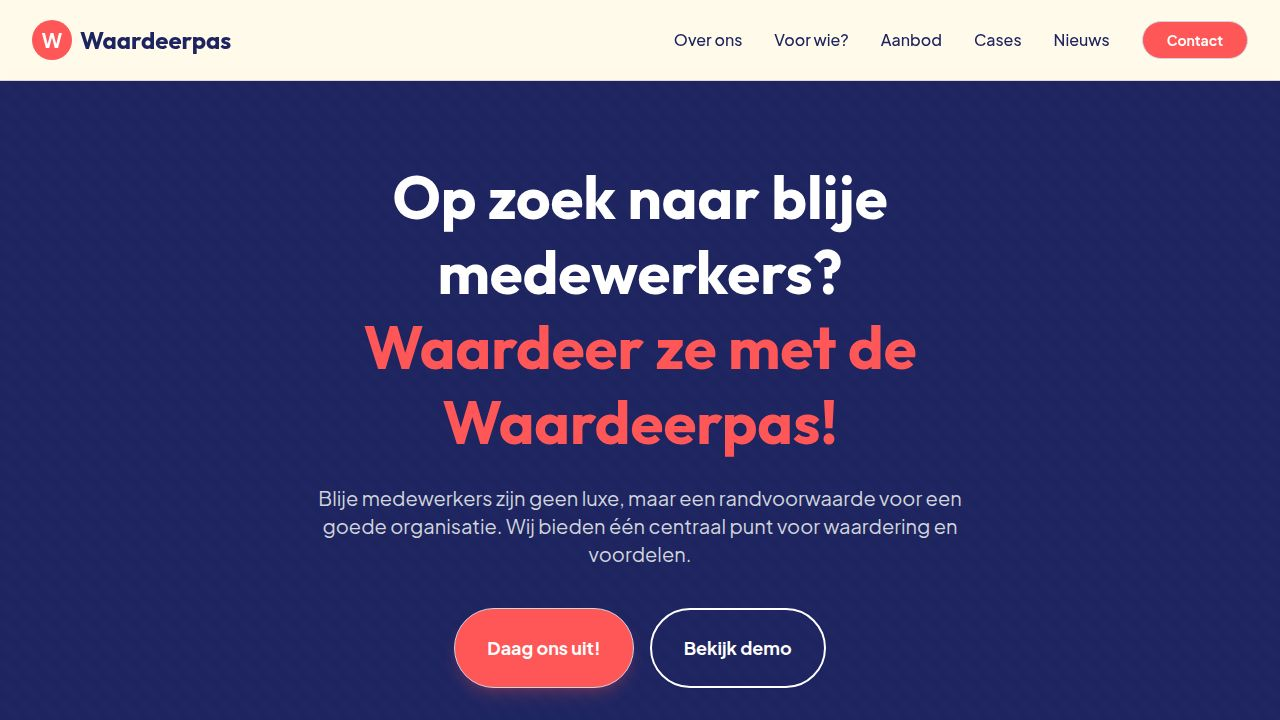
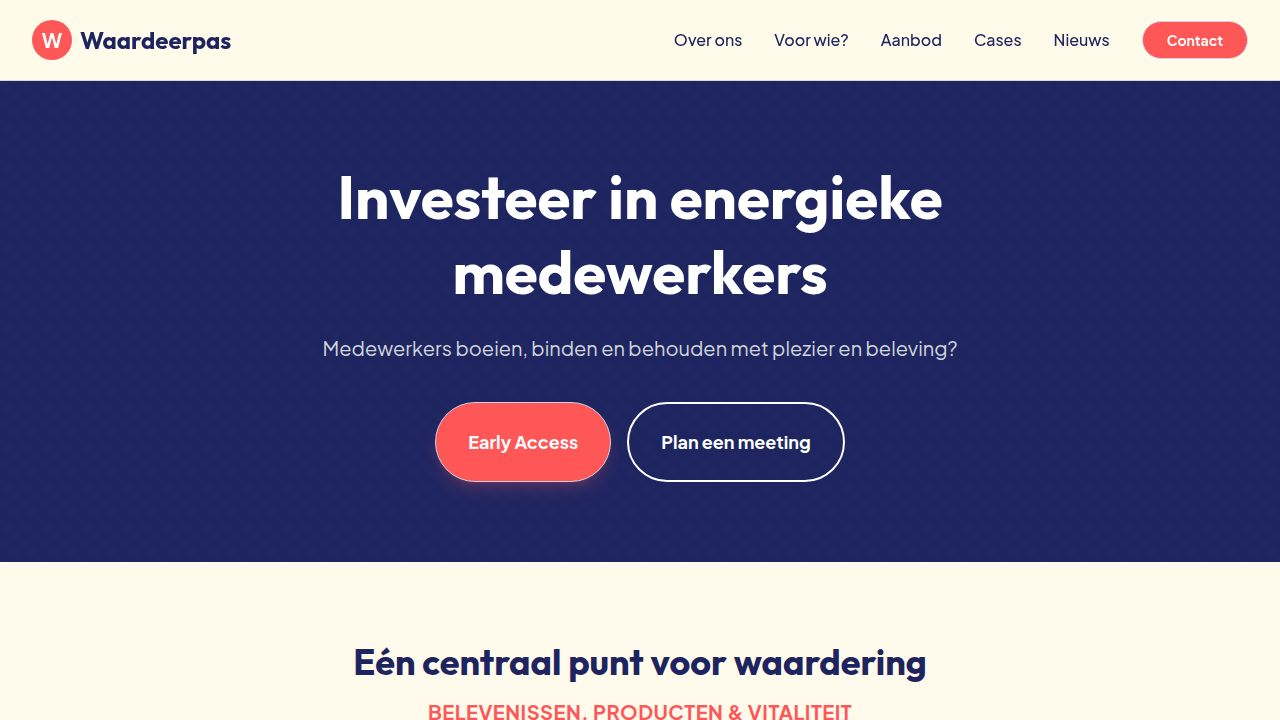
Update hero section with new buttons and feature card content
Modify `client/src/components/Hero.tsx` to change button text to "Early Access" and "Plan een meeting", and update the content of the three feature cards to reflect discounts, gift choices, and Christmas gifts.

Replit-Commit-Author: Agent
Replit-Commit-Session-Id: a5703a2b-0e52-4d04-9498-0dfba1b428a8
Replit-Commit-Checkpoint-Type: full_checkpoint
Replit-Commit-Event-Id: 29dc5ae6-b3f6-4ada-8f53-25484238f965
Replit-Commit-Screenshot-Url: https://storage.googleapis.com/screenshot-production-us-central1/c4239c5d-a015-4585-a5ce-32e352f4c545/a5703a2b-0e52-4d04-9498-0dfba1b428a8/sgQx4Fz
Replit-Helium-Checkpoint-Created: true

Changed region(s): [[0.0, 0.55, 1.0, 1.0], [0.25, 0.2444, 0.75, 0.4278], [0.25, 0.4278, 0.75, 0.5194]]

diff --git a/client/src/components/Hero.tsx b/client/src/components/Hero.tsx
@@ -23,14 +23,14 @@ export function Hero() {
               size="lg"
               className="bg-[#FF5758] hover:bg-[#FF5758]/90 text-white font-bold text-lg px-8 py-6 rounded-full shadow-lg shadow-[#FF5758]/20 transition-all hover:scale-105"
             >
-              Daag ons uit!
+              Early Access
             </Button>
             <Button 
               variant="outline"
               size="lg"
               className="bg-transparent border-2 border-white text-white hover:bg-white hover:text-[#1E2460] font-bold text-lg px-8 py-6 rounded-full transition-all"
             >
-              Bekijk demo
+              Plan een meeting
             </Button>
           </div>
         </div>
@@ -49,35 +49,16 @@ export function Hero() {
           </div>
 
           <div className="grid md:grid-cols-3 gap-8 lg:gap-12">
-            {/* Card 1: Belevenissen */}
-            <div className="flex flex-col items-center text-center group">
-              <div className="w-20 h-20 bg-white rounded-2xl shadow-sm border border-[#1E2460]/10 flex items-center justify-center mb-6 group-hover:scale-110 transition-transform duration-300">
-                <Heart className="w-10 h-10 text-[#FF5758]" />
-              </div>
-              <h3 className="text-xl font-bold text-[#1E2460] mb-3">
-                Belevenissen & Uitjes
-              </h3>
-              <p className="text-[#1E2460]/70 mb-6 leading-relaxed">
-                Creëer blijvende herinneringen met exclusieve toegang tot unieke ervaringen en activiteiten die verbondenheid versterken.
-              </p>
-              <Button 
-                variant="link" 
-                className="text-[#1E2460] font-bold group-hover:text-[#FF5758] transition-colors p-0"
-              >
-                Lees meer <ArrowRight className="w-4 h-4 ml-2" />
-              </Button>
-            </div>
-
-            {/* Card 2: Fysieke Producten */}
+            {/* Card 1: Kortingen */}
             <div className="flex flex-col items-center text-center group">
               <div className="w-20 h-20 bg-white rounded-2xl shadow-sm border border-[#1E2460]/10 flex items-center justify-center mb-6 group-hover:scale-110 transition-transform duration-300">
                 <ShoppingBag className="w-10 h-10 text-[#FF5758]" />
               </div>
               <h3 className="text-xl font-bold text-[#1E2460] mb-3">
-                Fysieke Producten
+                Meer dan 15.000 kortingen
               </h3>
               <p className="text-[#1E2460]/70 mb-6 leading-relaxed">
-                Exclusieve toegang tot een gesloten platform met hoogwaardige lifestyle-producten, gadgets en verzorgingsartikelen.
+                Op digitale producten, fysieke producten en dagjes uit. Alles om jouw medewerkers te verrassen.
               </p>
               <Button 
                 variant="link" 
@@ -87,16 +68,35 @@ export function Hero() {
               </Button>
             </div>
 
-            {/* Card 3: Vitaliteit/Geschenken */}
+            {/* Card 2: Keuze Cadeaus */}
             <div className="flex flex-col items-center text-center group">
               <div className="w-20 h-20 bg-white rounded-2xl shadow-sm border border-[#1E2460]/10 flex items-center justify-center mb-6 group-hover:scale-110 transition-transform duration-300">
                 <Gift className="w-10 h-10 text-[#FF5758]" />
               </div>
               <h3 className="text-xl font-bold text-[#1E2460] mb-3">
-                Personeelsgeschenken
+                Keuze cadeaus
               </h3>
               <p className="text-[#1E2460]/70 mb-6 leading-relaxed">
-                Medewerkers boeien, binden en behouden met plezier en beleving? Investeer in energieke medewerkers.
+                Eenvoudig personeel belonen met keuze cadeaus. Geef ze de vrijheid om zelf iets moois uit te zoeken.
+              </p>
+              <Button 
+                variant="link" 
+                className="text-[#1E2460] font-bold group-hover:text-[#FF5758] transition-colors p-0"
+              >
+                Lees meer <ArrowRight className="w-4 h-4 ml-2" />
+              </Button>
+            </div>
+
+            {/* Card 3: Kerstcadeaus */}
+            <div className="flex flex-col items-center text-center group">
+              <div className="w-20 h-20 bg-white rounded-2xl shadow-sm border border-[#1E2460]/10 flex items-center justify-center mb-6 group-hover:scale-110 transition-transform duration-300">
+                <Heart className="w-10 h-10 text-[#FF5758]" />
+              </div>
+              <h3 className="text-xl font-bold text-[#1E2460] mb-3">
+                Kerstcadeaus
+              </h3>
+              <p className="text-[#1E2460]/70 mb-6 leading-relaxed">
+                Regel kerstcadeaus met 1 druk op de knop. Volledige ontzorging tijdens de drukste tijd van het jaar.
               </p>
               <Button 
                 variant="link" 
